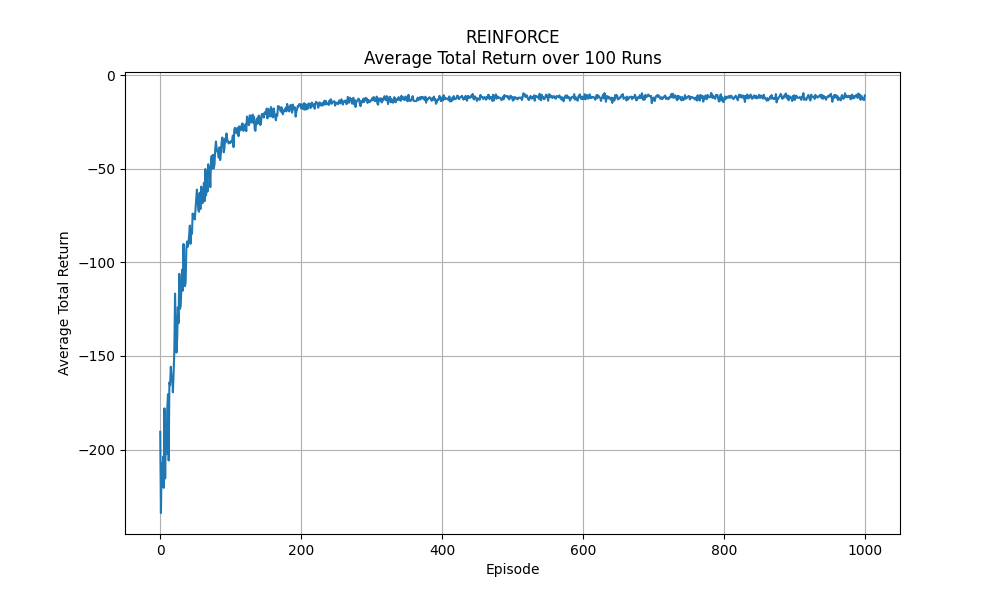
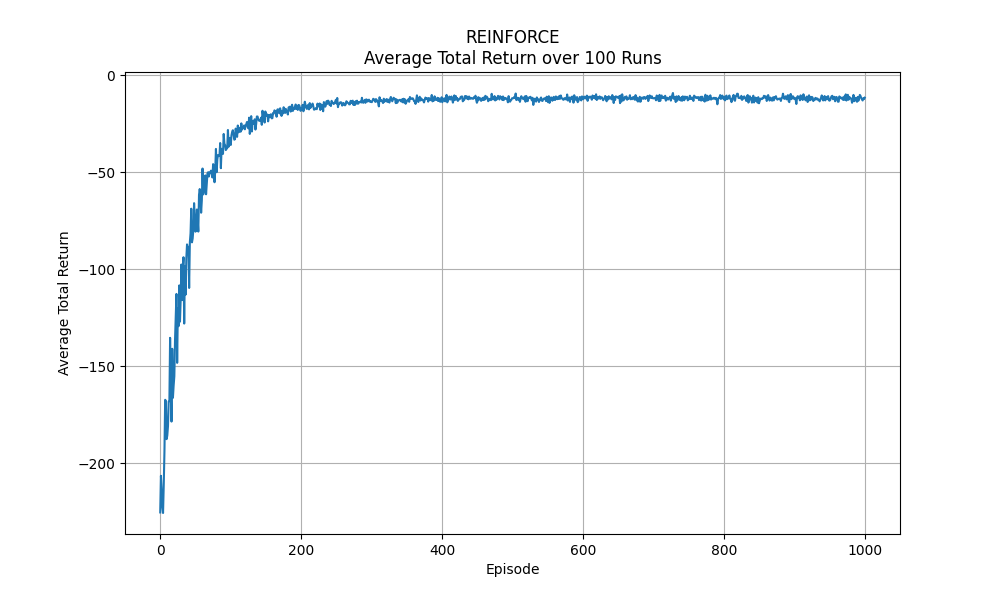
policy gradient method

diff --git a/experiments/corridor_gridworld/actor_critic.md b/experiments/corridor_gridworld/actor_critic.md
@@ -1,0 +1,3 @@
+**Use Actor-Critic to solve Corridor Gridworld**
+
+Compared to REINFORCE, Actor-Critic uses TD learning for updates, which should lead to faster convergence. However, since it introduces bias, the parameters need to be tuned more carefully. To ensure stable policy training, it's preferable for the value network to converge faster, so generally, the value network's alpha can be set slightly higher than the policy network's. After tuning the parameters, it becomes clear that Actor-Critic converges faster than both REINFORCE and REINFORCE with Baseline.

diff --git a/experiments/corridor_gridworld/reinforce_with_baseline.md b/experiments/corridor_gridworld/reinforce_with_baseline.md
@@ -1,0 +1,3 @@
+**Use REINFORCE with Baseline to solve Corridor Gridworld**
+
+Using a value network as a baseline helps reduce the variance in training without introducing bias. Therefore, compared to REINFORCE, a larger alpha can be used while still maintaining stable training, resulting in faster learning. Notably, experiments revealed that simply using a baseline without increasing alpha does not significantly speed up training.

diff --git a/experiments/corridor_gridworld/reinforce.md b/experiments/corridor_gridworld/reinforce.md
@@ -1,0 +1,3 @@
+**Use REINFORCE to solve Corridor Gridworld**
+
+REINFORCE utilizes the Monte Carlo method, which leads to high variance. When solving this problem, I initially couldn't train the model stably. Later, during debugging, I realized that I needed to reduce the alpha value. The current alpha is the largest value that allows for stable training.
